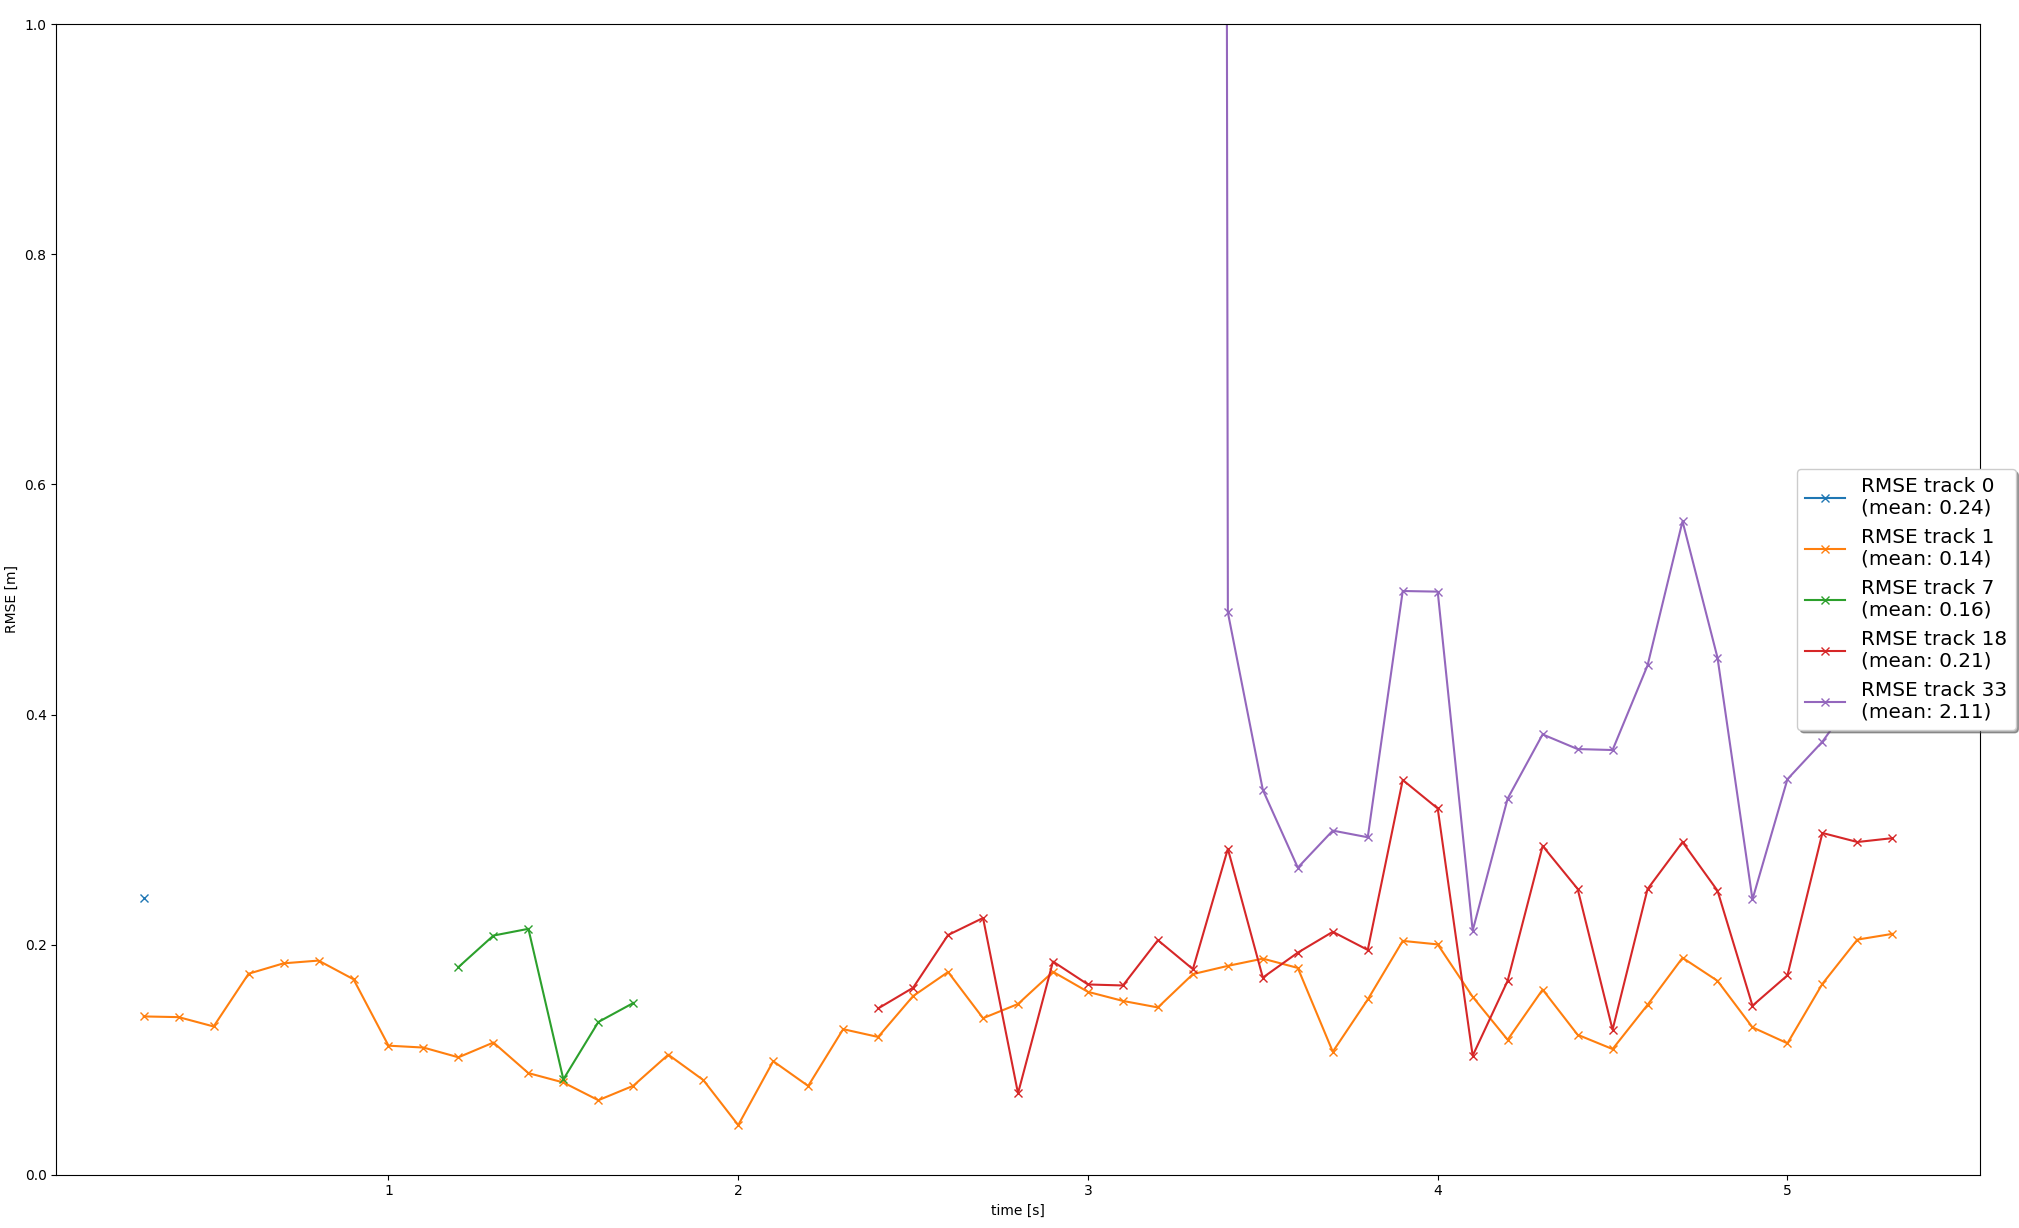
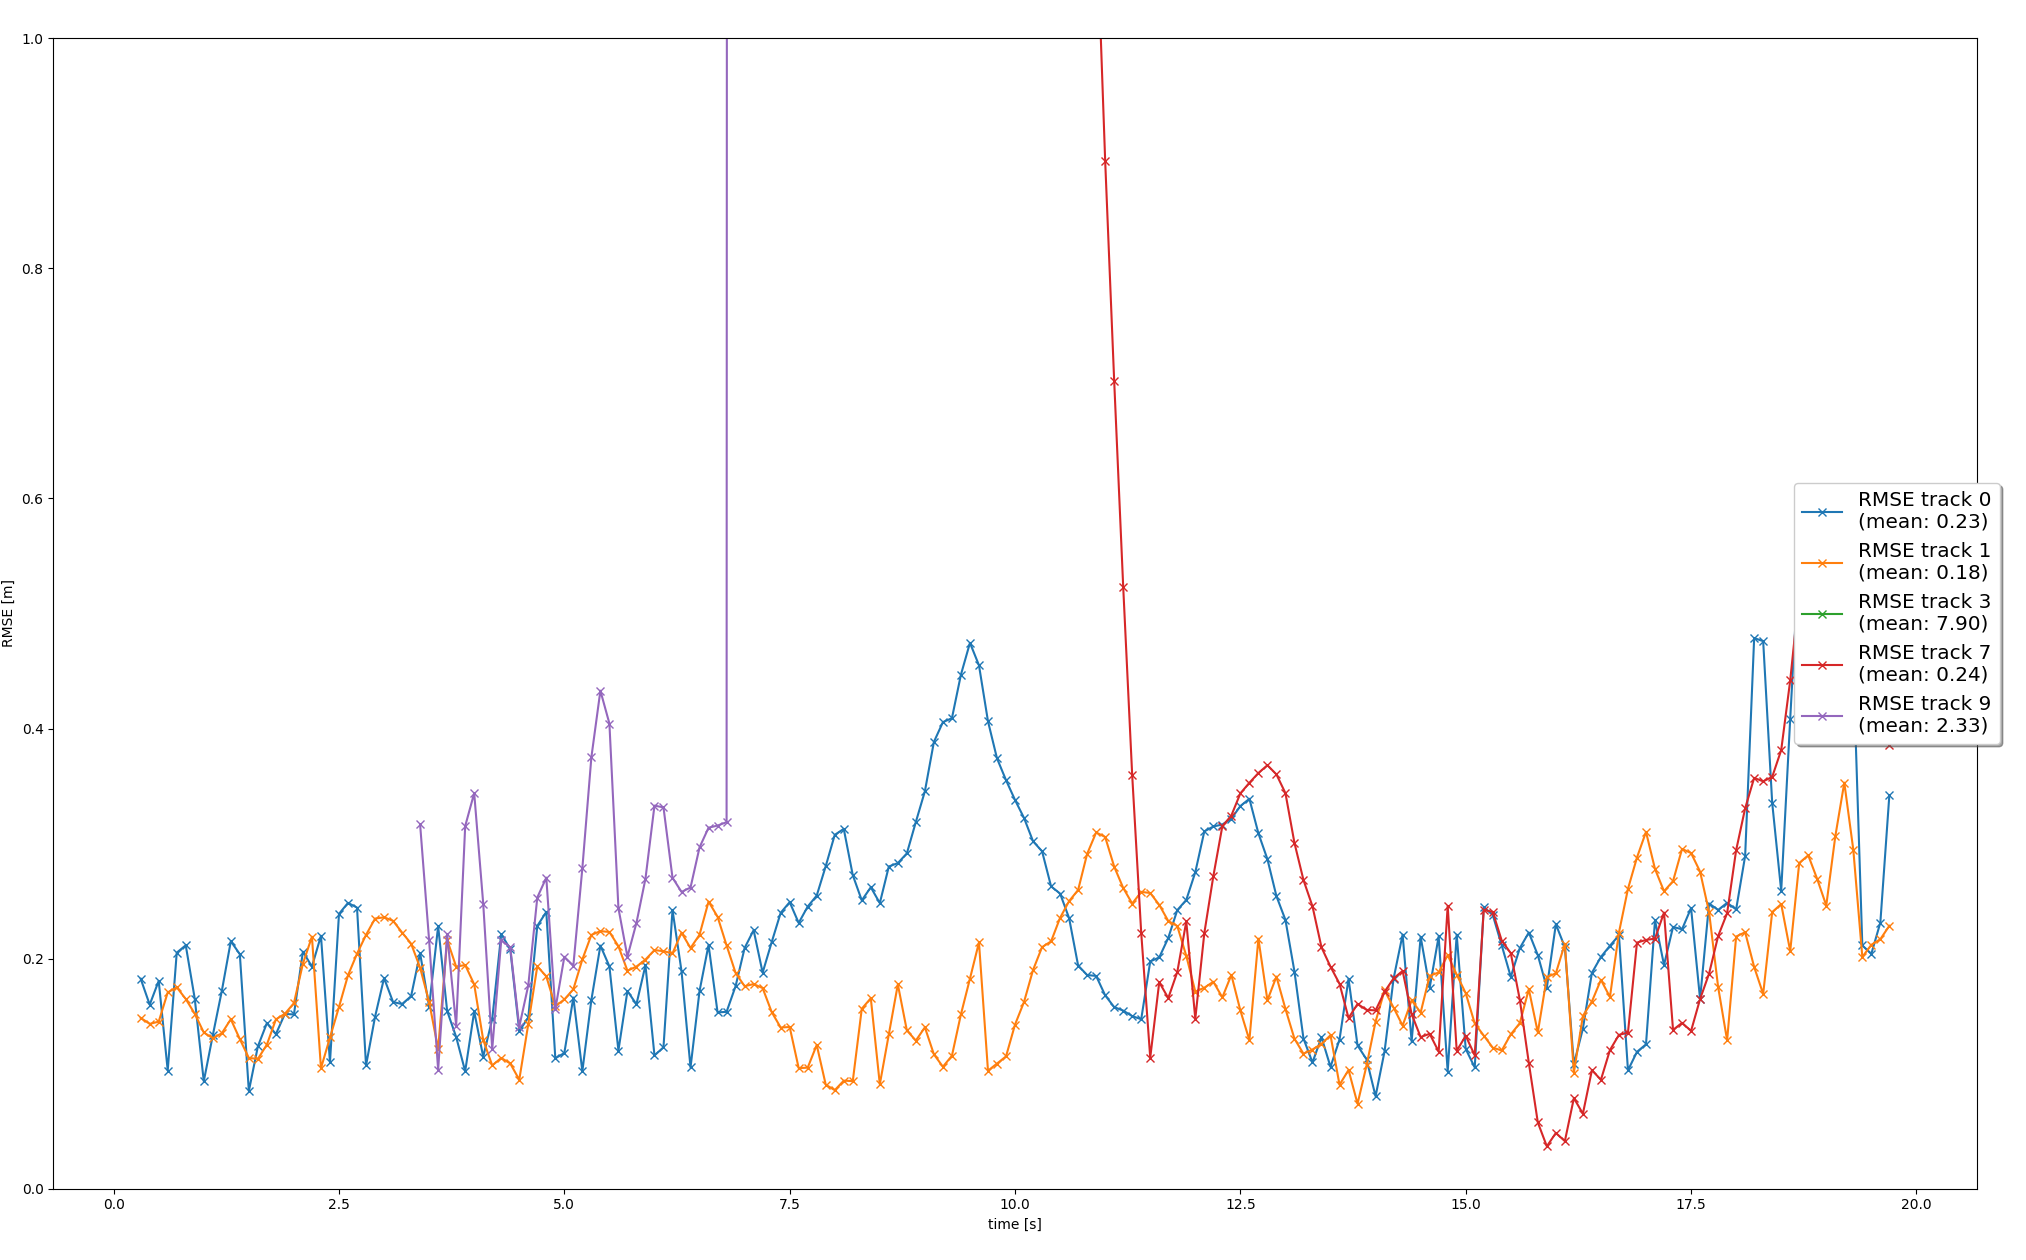
RMSE values are calculated stable

diff --git a/loop_over_dataset.py b/loop_over_dataset.py
@@ -34,10 +34,10 @@ import misc.params as params
 ## Set parameters and perform initializations
 
 ## Select Waymo Open Dataset file and frame numbers
-# data_filename = 'training_segment-1005081002024129653_5313_150_5333_150_with_camera_labels.tfrecord' # Sequence 1
-data_filename = 'training_segment-10072231702153043603_5725_000_5745_000_with_camera_labels.tfrecord' # Sequence 2
+data_filename = 'training_segment-1005081002024129653_5313_150_5333_150_with_camera_labels.tfrecord' # Sequence 1
+# data_filename = 'training_segment-10072231702153043603_5725_000_5745_000_with_camera_labels.tfrecord' # Sequence 2
 # data_filename = 'training_segment-10963653239323173269_1924_000_1944_000_with_camera_labels.tfrecord' # Sequence 3
-show_only_frames = [150, 200] # show only frames in interval for debugging
+show_only_frames = [0, 200] # show only frames in interval for debugging
 
 ## Prepare Waymo Open Dataset file for loading
 data_fullpath = os.path.join(os.path.dirname(os.path.realpath(__file__)), 'dataset', data_filename) # adjustable path in case this script is called from another working directory
@@ -52,7 +52,7 @@ model_det = det.create_model(configs_det)
 configs_det.use_labels_as_objects = False # True = use groundtruth labels as objects, False = use model-based detection
 
 ## Uncomment this setting to restrict the y-range in the final project
-configs_det.lim_y = [-5, 15] 
+configs_det.lim_y = [-25, 25] 
 
 ## Initialize tracking
 KF = Filter() # set up Kalman filter 

diff --git a/student/association.py b/student/association.py
@@ -97,12 +97,12 @@ class Association:
         if sensor.name == 'lidar':
             #While fine tuning the algorihm, we find that it's better to have a larger gate threshold for lidar 
             #which means current lidar noise is a bit underestimated
-            df = 2
+            df = sensor.dim_meas
             gate_val = params.gating_threshold_lidar
         
         if sensor.name == 'camera':
             gate_val = params.gating_threshold
-            df = 1
+            df = sensor.dim_meas
         x= MHD * MHD
         per = chi2.cdf(x, df)
         if sensor.name == 'lidar':

diff --git a/misc/params.py b/misc/params.py
@@ -29,7 +29,8 @@ weight_dim = 0.1 # sliding average parameter for dimension estimation
 
 # association parameters (Step 3)
 gating_threshold = 0.995 # percentage of correct measurements that shall lie inside gate
-gating_threshold_lidar = 1.995
+# gating_threshold_lidar = 0.995
+gating_threshold_lidar = 1.195
 
 # measurement parameters (Step 4)
 sigma_lidar_x = 0.1 # measurement noise standard deviation for lidar x position   

diff --git a/README.md b/README.md
@@ -368,25 +368,22 @@ In this step, we only track one object which moves from front of ego vehicle to 
         ############
         # TODO Step 1: implement and return process noise covariance Q
         ############
-        dt = self.dt  # Time step
-        q = self.q  # Base noise parameter
-
-        # Calculate noise scaling factor for the diagonal elements
-        q_diagonal = dt * q
-
-        # Create an empty matrix of appropriate size
+        dt = self.dt
+        q = self.q
+        q1 = dt * q
         Q = np.zeros((self.dim_state, self.dim_state))
+        np.fill_diagonal(Q, q1)
+        
+        Q = np.matrix([
+            [(dt**5)/20, 0, (dt**4)/8, 0, (dt**3)/6, 0],
+            [0, (dt**5)/20, 0, (dt**4)/8, 0, (dt**3)/6],
+            [(dt**4)/8, 0, (dt**3)/3, 0, (dt**2)/2, 0],
+            [0, (dt**4)/8, 0, (dt**3)/3, 0, (dt**2)/2],
+            [(dt**3)/6, 0, (dt**2)/2, 0, dt, 0],
+            [0, (dt**3)/6, 0, (dt**2)/2, 0, dt]
+        ]) * q
 
-        # Assign the scaled noise value to the diagonal
-        for i in range(self.dim_state):
-            Q[i, i] = q_diagonal
-
-        print("covariance Q is completed")
-
-        return np.matrix(Q)
-        ############
-        # END student code
-        ############ 
+        return Q
 ```
 ```python
   def predict(self, track):
@@ -549,7 +546,7 @@ In Step 2 of the final project, I implemented the track management to initialize
 ```
 
 ```python
-  def manage_tracks(self, unassigned_tracks, unassigned_meas, meas_list):  
+    def manage_tracks(self, unassigned_tracks, unassigned_meas, meas_list):  
         ############
         # TODO Step 2: implement track management:
         
@@ -565,12 +562,18 @@ In Step 2 of the final project, I implemented the track management to initialize
                 track.score -= 1 / params.window
         
         # Delete tracks if they meet the criteria for deletion
-        self.track_list = [
-            track for track in self.track_list if not (
-                track.score <= params.delete_threshold and
-                (track.P[0, 0] >= params.max_P or track.P[1, 1] >= params.max_P)
-            )
-        ]
+        # self.track_list = [
+        #     track for track in self.track_list if not (
+        #         track.score <= params.delete_threshold and
+        #         (track.P[0, 0] >= params.max_P or track.P[1, 1] >= params.max_P)
+        #     )
+        # ]
+                
+        #delete old track    
+        for track in self.track_list:
+            if track.score <= params.delete_threshold:
+                if track.P[0, 0] >= params.max_P or track.P[1, 1] >= params.max_P:
+                    self.delete_track(track)
 
         # Initialize new tracks from unassigned measurements using only lidar data
         for j in unassigned_meas:
@@ -602,7 +605,7 @@ In Step 2 of the final project, I implemented the track management to initialize
 ```
 Note that: gating_threshold_lidar parameter is set as 1.9 in this step otherwise the target cannot be confirmed.
 
-![img1](doc/rmse2_single.png)
+![img1](doc/rmse2_single2.png)
 
 ## Project Instructions Step 3
 In Step 3 of the final project, I implemented a single nearest neighbor data association to associate measurements to tracks. I finally tried multi target tracking now! This task involves writing code within the file student/association.py
@@ -640,6 +643,37 @@ def associate(self, track_list, meas_list, KF):
         # Logging association matrix creation
         logging.info("Association matrix updated and unassigned lists reset.")
 ```
+
+```python
+    def gating_ok(self, MHD, sensor): 
+        ############
+        # TODO Step 3: return True if measurement lies inside gate, otherwise False
+        ############
+        df = None
+        gate_val = None
+        if sensor.name == 'lidar':
+            #While fine tuning the algorihm, we find that it's better to have a larger gate threshold for lidar 
+            #which means current lidar noise is a bit underestimated
+            df = sensor.dim_meas
+            gate_val = params.gating_threshold_lidar
+        
+        if sensor.name == 'camera':
+            gate_val = params.gating_threshold
+            df = sensor.dim_meas
+        x= MHD * MHD
+        per = chi2.cdf(x, df)
+        if sensor.name == 'lidar':
+            print("lidar chisqr = {}".format(per))
+        if per <  gate_val:
+            return True
+        else:
+            return False
+        
+        ############
+        # END student code
+        ############ 
+```
+
 ```python
 def get_closest_track_and_meas(self):
         ############
@@ -688,7 +722,7 @@ def MHD(self, track, meas, KF):
         # END student code
         ############ 
 ```
-Note that: because of the wrong detection one of the rmse was measured as too high.
+Note that: because of the wrong detections some of the RMSE was measured as too high, however, track0, track1 and track7 are validated targets to be tracked.
 ![img1](doc/rmse_multi.png)
 
 ## Project Instructions Step 4
@@ -852,9 +886,9 @@ def generate_measurement(self, num_frame, z, meas_list):
       ############ 
 ```
 
-RMSE values for track 0, track2 and track 3
+RMSE values for track 0, track2 and track 7 are betwwen 0.0 - 0.2.
 Note that: because of the wrong detection one of the rmse was measured as too high. If use_labels_as_objects is set as False
-![img1](doc/rmse2_multi.png)
+![img1](doc/rmse_multi2.png)
 
 If use_labels_as_objects is set as True
 ![img1](doc/rmse's.png)
